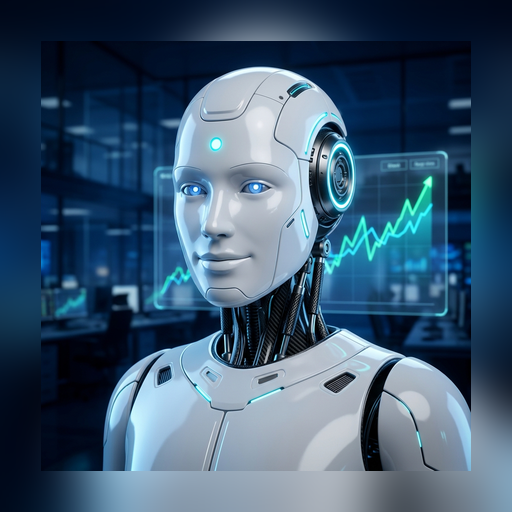
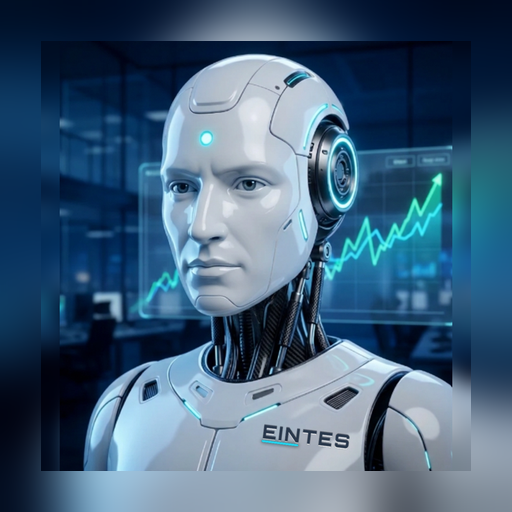
Add files via upload

diff --git a/app.js b/app.js
@@ -22,6 +22,7 @@ const name = (s) => s.replace(/USDT$/, '');
 const COLORS = ['#f7931a', '#627eea', '#f3ba2f', '#14f195', '#23292f', '#c2a633', '#0033ad', '#ef0027', '#2a5ada', '#e84142', '#e6007a', '#345d9d', '#0ac18e', '#00c08b', '#ff007a', '#2e3148', '#14b6e7', '#3ab83a', '#06d6a0', '#4da2ff'];
 const coinBadge = (s) => `<div class="coin" style="background:${COLORS[MAJORS.indexOf(s) % COLORS.length] || '#475569'}">${esc(name(s).slice(0, 4))}</div>`;
 const binanceUrl = (s) => `https://www.binance.com/es/trade/${name(s)}_USDT?type=spot`;
+const FULL = { BTCUSDT: 'Bitcoin', ETHUSDT: 'Ethereum', BNBUSDT: 'BNB', SOLUSDT: 'Solana', XRPUSDT: 'Ripple', DOGEUSDT: 'Dogecoin', ADAUSDT: 'Cardano', TRXUSDT: 'Tron', LINKUSDT: 'Chainlink', AVAXUSDT: 'Avalanche', DOTUSDT: 'Polkadot', LTCUSDT: 'Litecoin', BCHUSDT: 'Bitcoin Cash', NEARUSDT: 'Near', UNIUSDT: 'Uniswap', ATOMUSDT: 'Cosmos', XLMUSDT: 'Stellar', ETCUSDT: 'Ethereum Classic', APTUSDT: 'Aptos', SUIUSDT: 'Sui' };
 const STATUS = {
   ruptura: { label: 'RUPTURA HOY', cls: 'p-ruptura' },
   cerca: { label: 'CERCA', cls: 'p-cerca' },
@@ -91,7 +92,7 @@ function rowItem(r) {
     : r.status === 'fuera' ? `Bajo su media de 200 (${pct((r.price / r.sma200 - 1) * 100)})`
     : r.dist <= 0 ? `Ya supera ${fmt(r.nextLevel)}: falta confirmar al cierre (21:00)`
     : `Le falta ${r.dist.toFixed(1)}% para romper ${fmt(r.nextLevel)}`;
-  return `<div class="item" data-go="#/moneda/${r.symbol}">${coinBadge(r.symbol)}
+  return `<div class="item" data-go="#/moneda/${r.symbol}" data-name="${name(r.symbol).toLowerCase()} ${(FULL[r.symbol] || '').toLowerCase()}">${coinBadge(r.symbol)}
     <div class="grow"><div class="row between"><b>${name(r.symbol)}</b><span class="mono">${fmt(r.price)}</span></div>
     <div class="row between small"><span class="muted">${sub}</span><span class="${r.change >= 0 ? 'up' : 'down'} mono">${pct(r.change)}</span></div></div>
     <span class="pill ${st.cls}">${st.label}</span></div>`;
@@ -136,8 +137,9 @@ function vMercado(params) {
   if (f !== 'todas') rows = rows.filter((r) => r.status === f);
   const chip = (v, l) => `<a class="chip ${f === v ? 'on' : ''}" href="#/mercado?f=${v}" style="text-decoration:none">${l}</a>`;
   const cnt = (s) => m.rows.filter((r) => r.status === s).length;
-  return `<div class="chips">${chip('todas', `Todas (${m.rows.length})`)}${chip('ruptura', `Rupturas (${cnt('ruptura')})`)}${chip('cerca', `Cerca (${cnt('cerca')})`)}${chip('tendencia', `En tendencia (${cnt('tendencia')})`)}${chip('fuera', `Bajistas (${cnt('fuera')})`)}</div>
-    <div class="card list">${rows.map(rowItem).join('') || '<div class="muted small">No hay criptos en esta categoría ahora.</div>'}</div>
+  return `<div class="search"><svg viewBox="0 0 24 24" width="18" height="18" fill="none" stroke="currentColor" stroke-width="2" stroke-linecap="round"><circle cx="11" cy="11" r="7"/><path d="M20 20l-3.5-3.5"/></svg><input id="mSearch" type="search" placeholder="Buscar moneda (ej: sol, bitcoin)" autocomplete="off" value="${esc(state.q || '')}"></div>
+    <div class="chips">${chip('todas', `Todas (${m.rows.length})`)}${chip('ruptura', `Rupturas (${cnt('ruptura')})`)}${chip('cerca', `Cerca (${cnt('cerca')})`)}${chip('tendencia', `En tendencia (${cnt('tendencia')})`)}${chip('fuera', `Bajistas (${cnt('fuera')})`)}</div>
+    <div class="card list" id="mList">${rows.map(rowItem).join('') || '<div class="muted small">No hay criptos en esta categoría ahora.</div>'}<div class="muted small" id="mNone" style="display:none;padding:10px 0">No encontré esa moneda. El robot analiza solo las 20 criptos principales.</div></div>
     <div class="card small"><b>Cómo leerlo</b><div class="muted" style="margin-top:6px">
     <span class="pill p-ruptura">RUPTURA HOY</span> cerró sobre su máximo de 55 días en tendencia alcista: el robot propone comprar.<br><br>
     <span class="pill p-cerca">CERCA</span> en tendencia y a menos de 3% de romper.<br><br>
@@ -334,6 +336,7 @@ async function render() {
   const draw = () => {
     view.innerHTML = tab === 'mercado' ? vMercado(params) : tab === 'moneda' ? vMoneda(parts[1]) : tab === 'probar' ? vProbar(params) : tab === 'robot' ? vRobot() : vInicio();
     window.scrollTo(0, 0);
+    if (tab === 'mercado') applySearch();
   };
   draw();
   if (needsMarket && !state.market) { await loadMarket(); draw(); }
@@ -343,6 +346,13 @@ document.addEventListener('click', (e) => {
   if (go && !e.target.closest('a,button')) location.hash = go.dataset.go;
   if (e.target.id === 'pRun') runProbar();
 });
+function applySearch() {
+  const q = (state.q || '').trim().toLowerCase(), items = document.querySelectorAll('#mList .item');
+  let shown = 0;
+  items.forEach((it) => { const ok = !q || it.dataset.name.includes(q); it.style.display = ok ? '' : 'none'; if (ok) shown++; });
+  const none = document.getElementById('mNone'); if (none) none.style.display = items.length && !shown ? '' : 'none';
+}
+document.addEventListener('input', (e) => { if (e.target.id === 'mSearch') { state.q = e.target.value; applySearch(); } });
 document.addEventListener('change', (e) => { if (e.target.id === 'pMode') { const o = $('#pBotOpts'); if (o) o.style.display = e.target.value === 'bot' ? '' : 'none'; } });
 document.addEventListener('submit', (e) => {
   if (e.target.id !== 'prefsForm') return;

diff --git a/robot.js b/robot.js
@@ -1,28 +1,7 @@
-// Mascota original "Eintes Robot" en SVG (sin imágenes externas).
-// mood: 'feliz' | 'alerta' | 'calma'
-export function robotSvg(size = 96, mood = 'feliz', id = 'r') {
-  const mouth = mood === 'alerta'
-    ? '<ellipse cx="60" cy="78" rx="7" ry="6" fill="#0b1224"/>'
-    : mood === 'calma'
-      ? '<rect x="48" y="76" width="24" height="4" rx="2" fill="#0b1224"/>'
-      : '<path d="M46 74 Q60 86 74 74" stroke="#0b1224" stroke-width="4.5" fill="none" stroke-linecap="round"/>';
-  return `<svg class="robot" width="${size}" height="${size}" viewBox="0 0 120 120" role="img" aria-label="Eintes Robot">
-  <defs>
-    <linearGradient id="${id}h" x1="0" y1="0" x2="1" y2="1"><stop offset="0" stop-color="#22d3ee"/><stop offset="1" stop-color="#8b5cf6"/></linearGradient>
-    <radialGradient id="${id}g" cx=".5" cy=".5" r=".5"><stop offset="0" stop-color="#fef08a"/><stop offset="1" stop-color="#f59e0b"/></radialGradient>
-  </defs>
-  <line x1="60" y1="14" x2="60" y2="28" stroke="#94a3b8" stroke-width="4" stroke-linecap="round"/>
-  <circle class="antena" cx="60" cy="11" r="7" fill="url(#${id}g)"/>
-  <rect x="8" y="50" width="10" height="24" rx="5" fill="#64748b"/>
-  <rect x="102" y="50" width="10" height="24" rx="5" fill="#64748b"/>
-  <rect x="16" y="26" width="88" height="76" rx="26" fill="url(#${id}h)"/>
-  <rect x="26" y="38" width="68" height="52" rx="18" fill="#e0f2fe"/>
-  <g class="ojos">
-    <circle cx="45" cy="58" r="7.5" fill="#0b1224"/><circle cx="75" cy="58" r="7.5" fill="#0b1224"/>
-    <circle cx="47.5" cy="55.5" r="2.4" fill="#fff"/><circle cx="77.5" cy="55.5" r="2.4" fill="#fff"/>
-  </g>
-  ${mouth}
-  <circle cx="34" cy="74" r="4" fill="#f472b6" opacity=".45"/><circle cx="86" cy="74" r="4" fill="#f472b6" opacity=".45"/>
-  <rect x="44" y="104" width="32" height="8" rx="4" fill="#475569"/>
-</svg>`;
+// Mascota "Eintes Robot": foto del robot. El estado de ánimo cambia el brillo del marco.
+// (Se mantiene el nombre robotSvg para no cambiar el resto de la app.)
+export function robotSvg(size = 96, mood = 'feliz') {
+  const ring = mood === 'alerta' ? '#22c55e' : mood === 'calma' ? '#64748b' : '#22d3ee';
+  return `<img class="robot robot-foto ${mood}" src="robot-avatar.jpg" width="${size}" height="${size}" alt="Eintes Robot"
+    style="width:${size}px;height:${size}px;border-radius:${Math.round(size * 0.28)}px;object-fit:cover;flex:none;box-shadow:0 0 0 2px ${ring}, 0 0 ${Math.round(size * 0.22)}px ${ring}66">`;
 }

diff --git a/sw.js b/sw.js
@@ -1,7 +1,7 @@
 // Service worker de Eintes Robot: permite instalar la app y abrirla sin conexión.
 // Los datos de mercado nunca se guardan en caché.
-const VERSION = 'eintes-2.1.3';
-const SHELL = ['./', 'index.html', 'styles.css', 'app.js', 'chart.js', 'robot.js', 'binance.js', 'indicators.js', 'tendencia.js', 'manifest.webmanifest', 'icon-192.png', 'icon-512.png'];
+const VERSION = 'eintes-2.4.0';
+const SHELL = ['./', 'index.html', 'styles.css', 'app.js', 'chart.js', 'robot.js', 'robot-avatar.jpg', 'binance.js', 'indicators.js', 'tendencia.js', 'manifest.webmanifest', 'icon-192.png', 'icon-512.png'];
 self.addEventListener('install', (e) => e.waitUntil(caches.open(VERSION).then((c) => c.addAll(SHELL)).then(() => self.skipWaiting())));
 self.addEventListener('activate', (e) => e.waitUntil(caches.keys().then((k) => Promise.all(k.filter((x) => x !== VERSION).map((x) => caches.delete(x)))).then(() => self.clients.claim())));
 self.addEventListener('fetch', (e) => {

diff --git a/styles.css b/styles.css
@@ -116,3 +116,12 @@ nav.tabs a.on svg { stroke: var(--cyan); }
 @keyframes s { to { transform: rotate(360deg); } }
 .toast { position: fixed; left: 16px; right: 16px; bottom: 90px; z-index: 9; text-align: center; }
 .disclaimer { font-size: 11.5px; color: var(--dim); text-align: center; margin: 22px 8px 6px; line-height: 1.5; }
+
+.robot-foto { animation: respira 3.2s ease-in-out infinite; background: #0b1730; }
+.robot-foto.alerta { animation: alerta 1.2s ease-in-out infinite; }
+@keyframes respira { 0%, 100% { filter: brightness(1); } 50% { filter: brightness(1.12); } }
+@keyframes alerta { 0%, 100% { transform: scale(1); } 50% { transform: scale(1.04); } }
+
+.search { display: flex; align-items: center; gap: 8px; background: var(--card); border: 1px solid var(--line); border-radius: 14px; padding: 0 12px; margin-bottom: 10px; color: var(--muted); }
+.search input { border: 0; background: transparent; padding: 12px 0; }
+.search input:focus { outline: none; }
